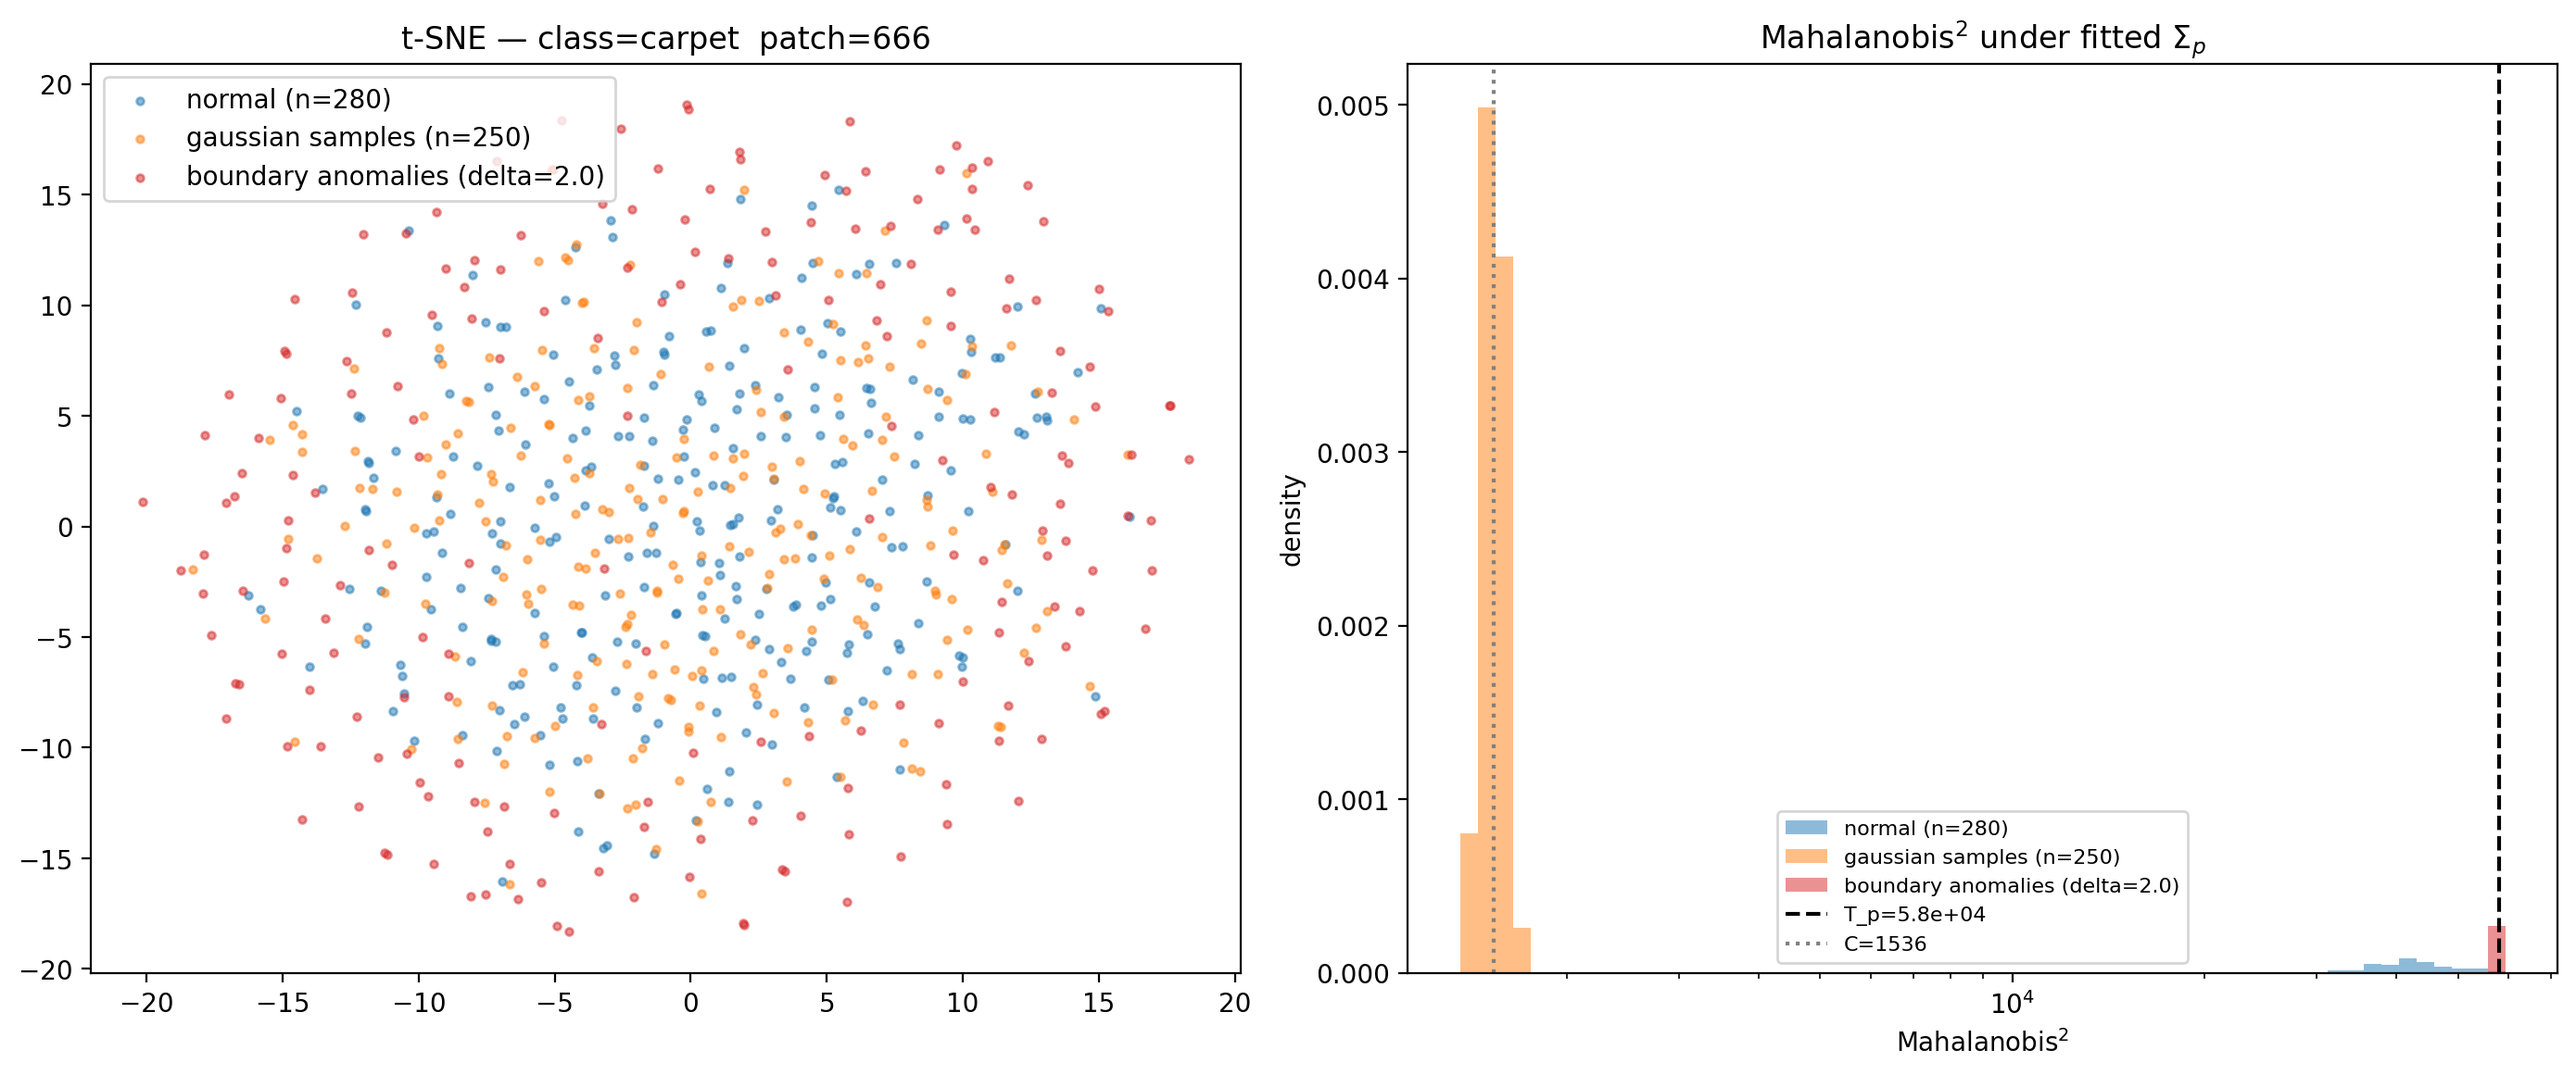
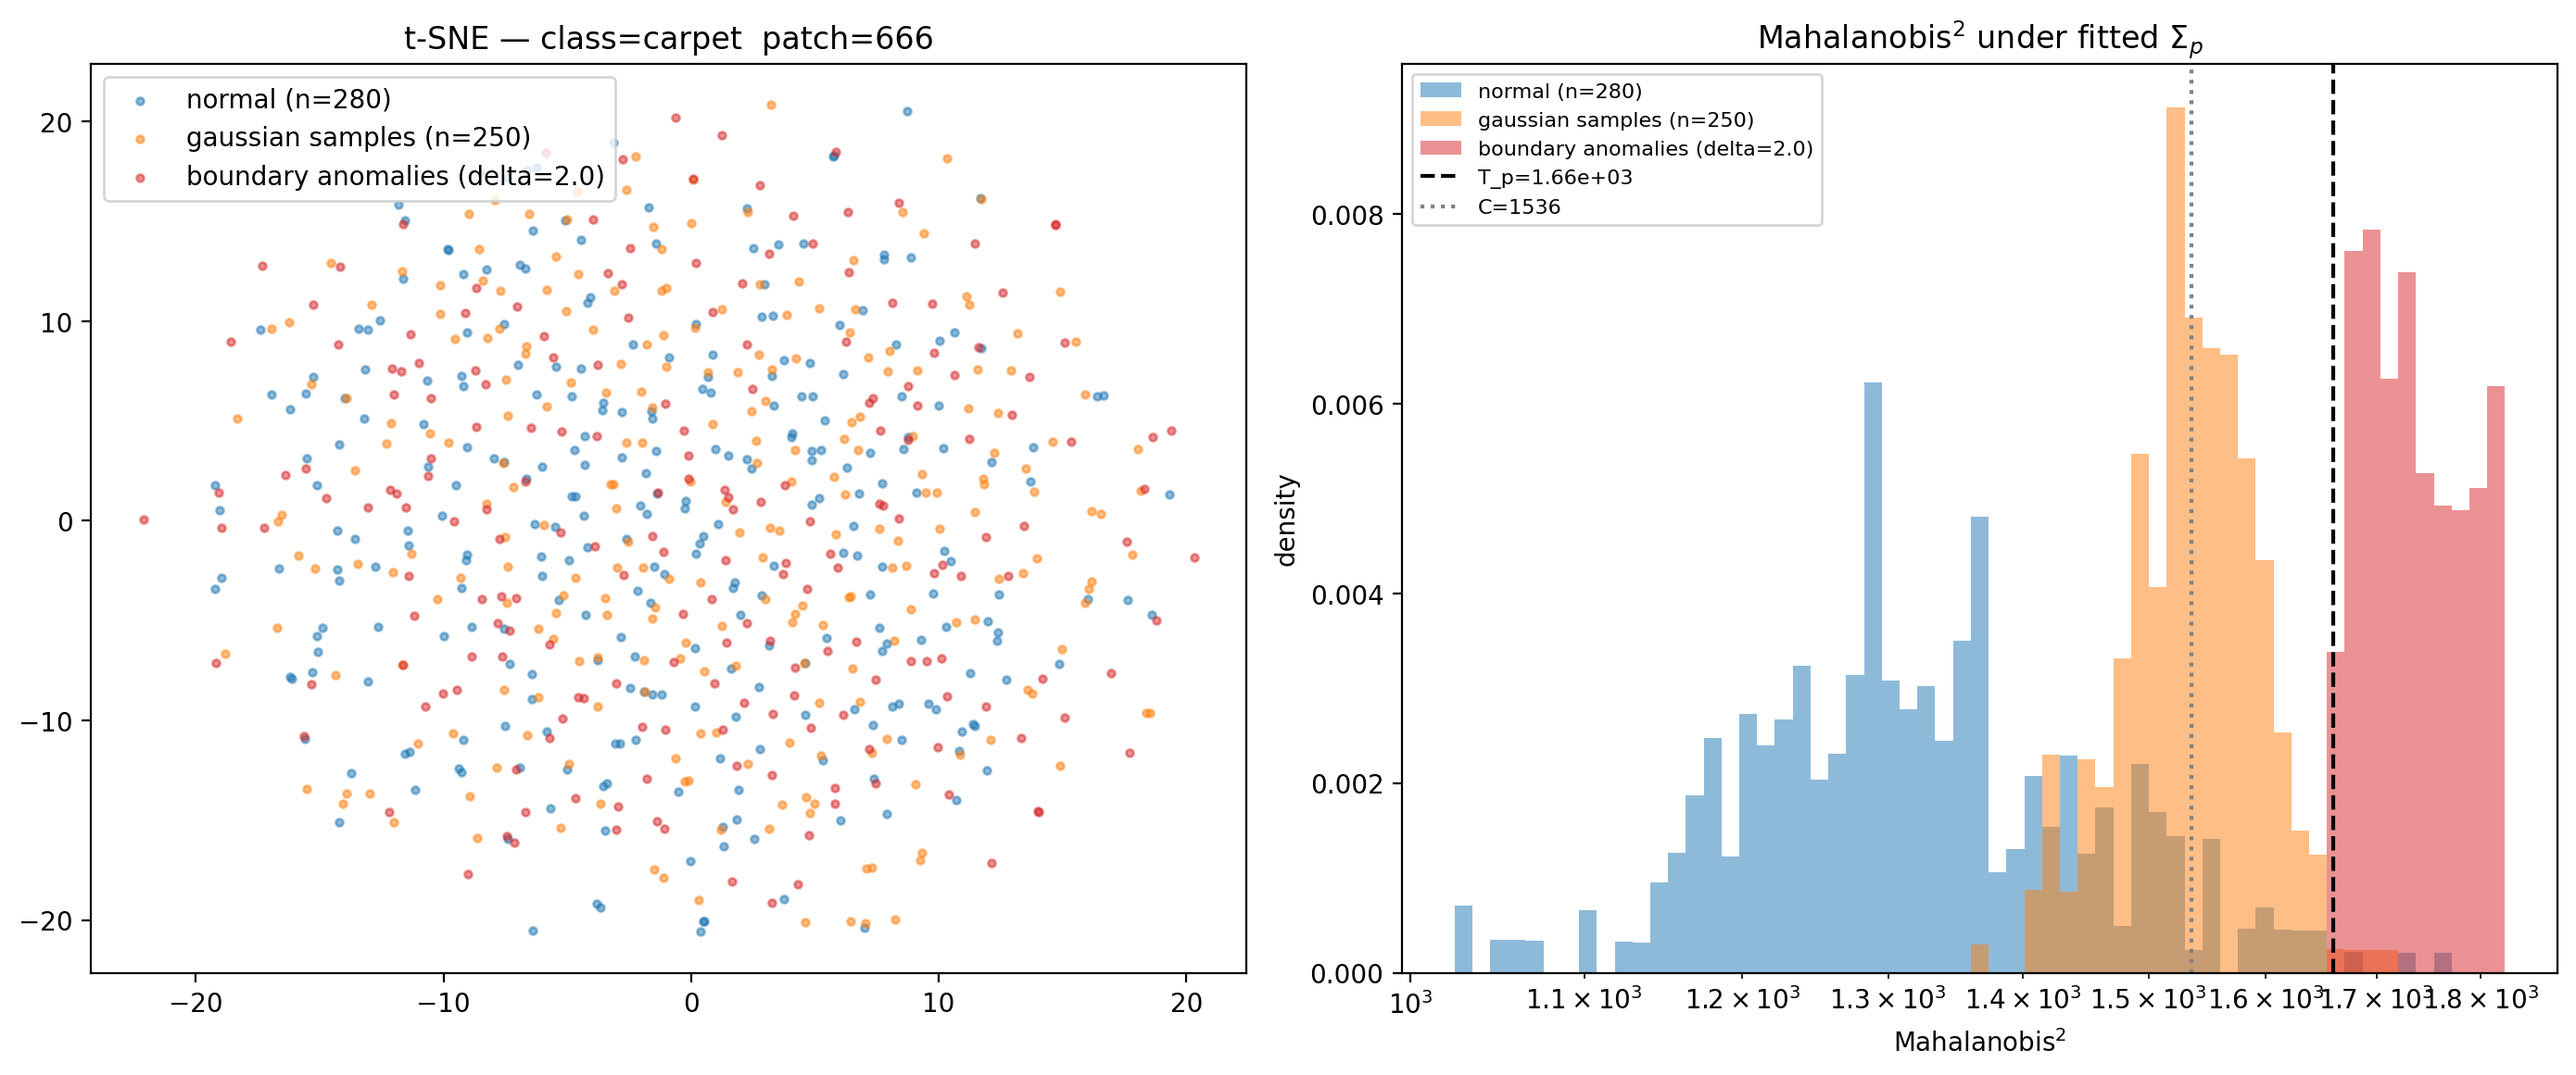
yay

diff --git a/low_rank_gaussian.py b/low_rank_gaussian.py
@@ -34,7 +34,7 @@ class TrueSpatialLowRankGaussian():
     which makes the rank-k+isotropic estimator far better-conditioned.
     """
 
-    def __init__(self, k=64, quantile=0.99, neighborhood=1, eps_method="ppca"):
+    def __init__(self, k=256, quantile=0.99, neighborhood=1, eps_method="ppca"):
         self.k = k
         self.quantile = quantile
         self.neighborhood = int(neighborhood)
